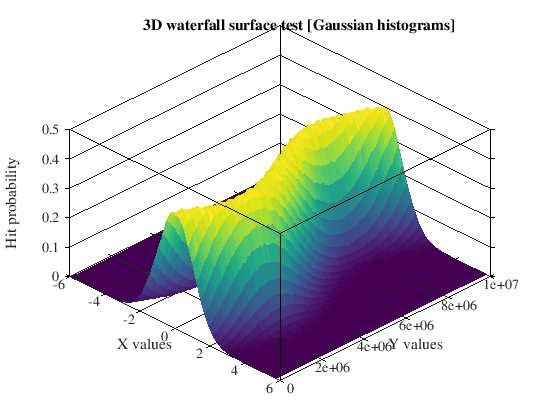
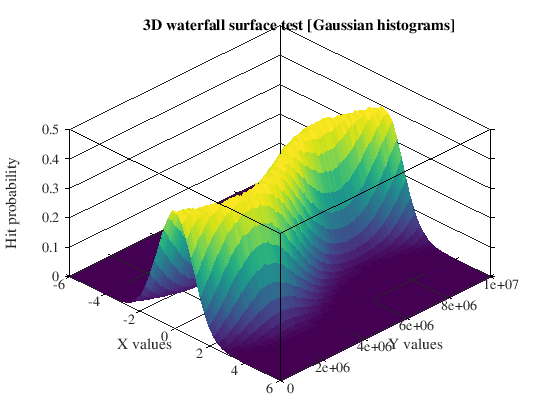
Pin to the figure in fig_struct

diff --git a/inst/niceplot.m b/inst/niceplot.m
@@ -1,5 +1,8 @@
 function nf = niceplot(nf, y, varargin)
   assert(isstruct(nf), "niceplot expects first argument to be a nicefig struct");
+  
+  figure(nf.f);
+  
   if length(varargin) > 0
     Y = varargin{1};
     varargin = varargin(2:end);

diff --git a/inst/nicewfall.m b/inst/nicewfall.m
@@ -4,6 +4,8 @@ function h = nicewfall(samps, times, Ns, Nt, fig_struct )
       fig_struct = nicefig();
     endif
     
+    figure(fig_struct.f);
+    
     sampmin = min(samps);
     sampmax = max(samps);
     nss = floor(length(samps)/Nt);
